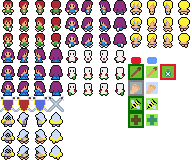
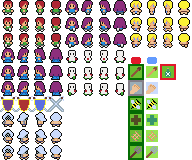
[Evol] Added Renegade and its spells

diff --git a/src/client/scenes/BattleScene.ts b/src/client/scenes/BattleScene.ts
@@ -7,7 +7,7 @@ import { Spell } from "../classes/battle/Spell";
 import { BattleUIScene } from "./BattleUIScene";
 import isVisible from "../utils/lineOfSight";
 import { unitsAvailable } from "../data/UnitData";
-import { heal, javelin, punch, sting } from "../data/SpellData";
+import { heal, javelin, net, punch, sting, trident } from "../data/SpellData";
 import { WorldScene } from "./WorldScene";
 import { ServerUnit } from "../../server/classes/ServerUnit";
 import { Socket } from "socket.io-client";
@@ -834,6 +834,12 @@ export class BattleScene extends Phaser.Scene {
           break;
         case "herbal medicine":
           spellArray.push(heal);
+          break;
+        case "net":
+          spellArray.push(net);
+          break;
+        case "trident":
+          spellArray.push(trident);
           break;
         default:
           break;

diff --git a/src/server/classes/ServerUnit.ts b/src/server/classes/ServerUnit.ts
@@ -1,6 +1,13 @@
 import { EffectOverTime } from "../../client/classes/battle/EffectOverTime";
 import { Spell } from "../../client/classes/battle/Spell";
-import { javelin, punch, sting, heal } from "../../client/data/SpellData";
+import {
+  javelin,
+  punch,
+  sting,
+  heal,
+  net,
+  trident,
+} from "../../client/data/SpellData";
 import { unitsAvailable } from "../../client/data/UnitData";
 import { Vector2 } from "../utils/findPath";
 import { ServerBattleScene } from "../scenes/ServerBattleScene";
@@ -91,6 +98,12 @@ export class ServerUnit {
           break;
         case "herbal medicine":
           spellArray.push(heal);
+          break;
+        case "net":
+          spellArray.push(net);
+          break;
+        case "trident":
+          spellArray.push(trident);
           break;
         default:
           break;

diff --git a/src/client/data/SpellData.ts b/src/client/data/SpellData.ts
@@ -30,6 +30,46 @@ export const javelin = new Spell(
   3
 );
 
+export const net = new Spell(
+  104,
+  3,
+  8,
+  4,
+  "Weighted net",
+  true,
+  false,
+  15,
+  2,
+  0,
+  0,
+  0,
+  0,
+  "star",
+  1
+);
+
+export const trident = new Spell(
+  116,
+  2,
+  3,
+  2,
+  "Trident",
+  true,
+  true,
+  20,
+  0,
+  0,
+  0,
+  0,
+  0,
+  "line",
+  1,
+  1,
+  null,
+  null,
+  -2
+);
+
 export const punch = new Spell(68, 1, 1, 4, "Punch", true, false, 50);
 
 // DEV

diff --git a/src/client/data/UnitData.ts b/src/client/data/UnitData.ts
@@ -11,7 +11,7 @@ export interface UnitData {
 
 export const amazon: UnitData = {
   HP: 100,
-  PM: 6,
+  PM: 4,
   PA: 6,
   spells: "deadly javelin, herbal medicine, sting",
   frame: 8,
@@ -22,7 +22,7 @@ export const renegade: UnitData = {
   HP: 120,
   PM: 4,
   PA: 6,
-  spells: "punch",
+  spells: "net, trident, punch",
   frame: 84,
   type: "Renegade",
 };

diff --git a/src/server/auth/auth.ts b/src/server/auth/auth.ts
@@ -37,7 +37,7 @@ passport.use(
           password,
           username,
           mapName: "forest",
-          type: "Princess",
+          type: "Renegade",
           color: randomColor,
         });
         return done(null, user);
